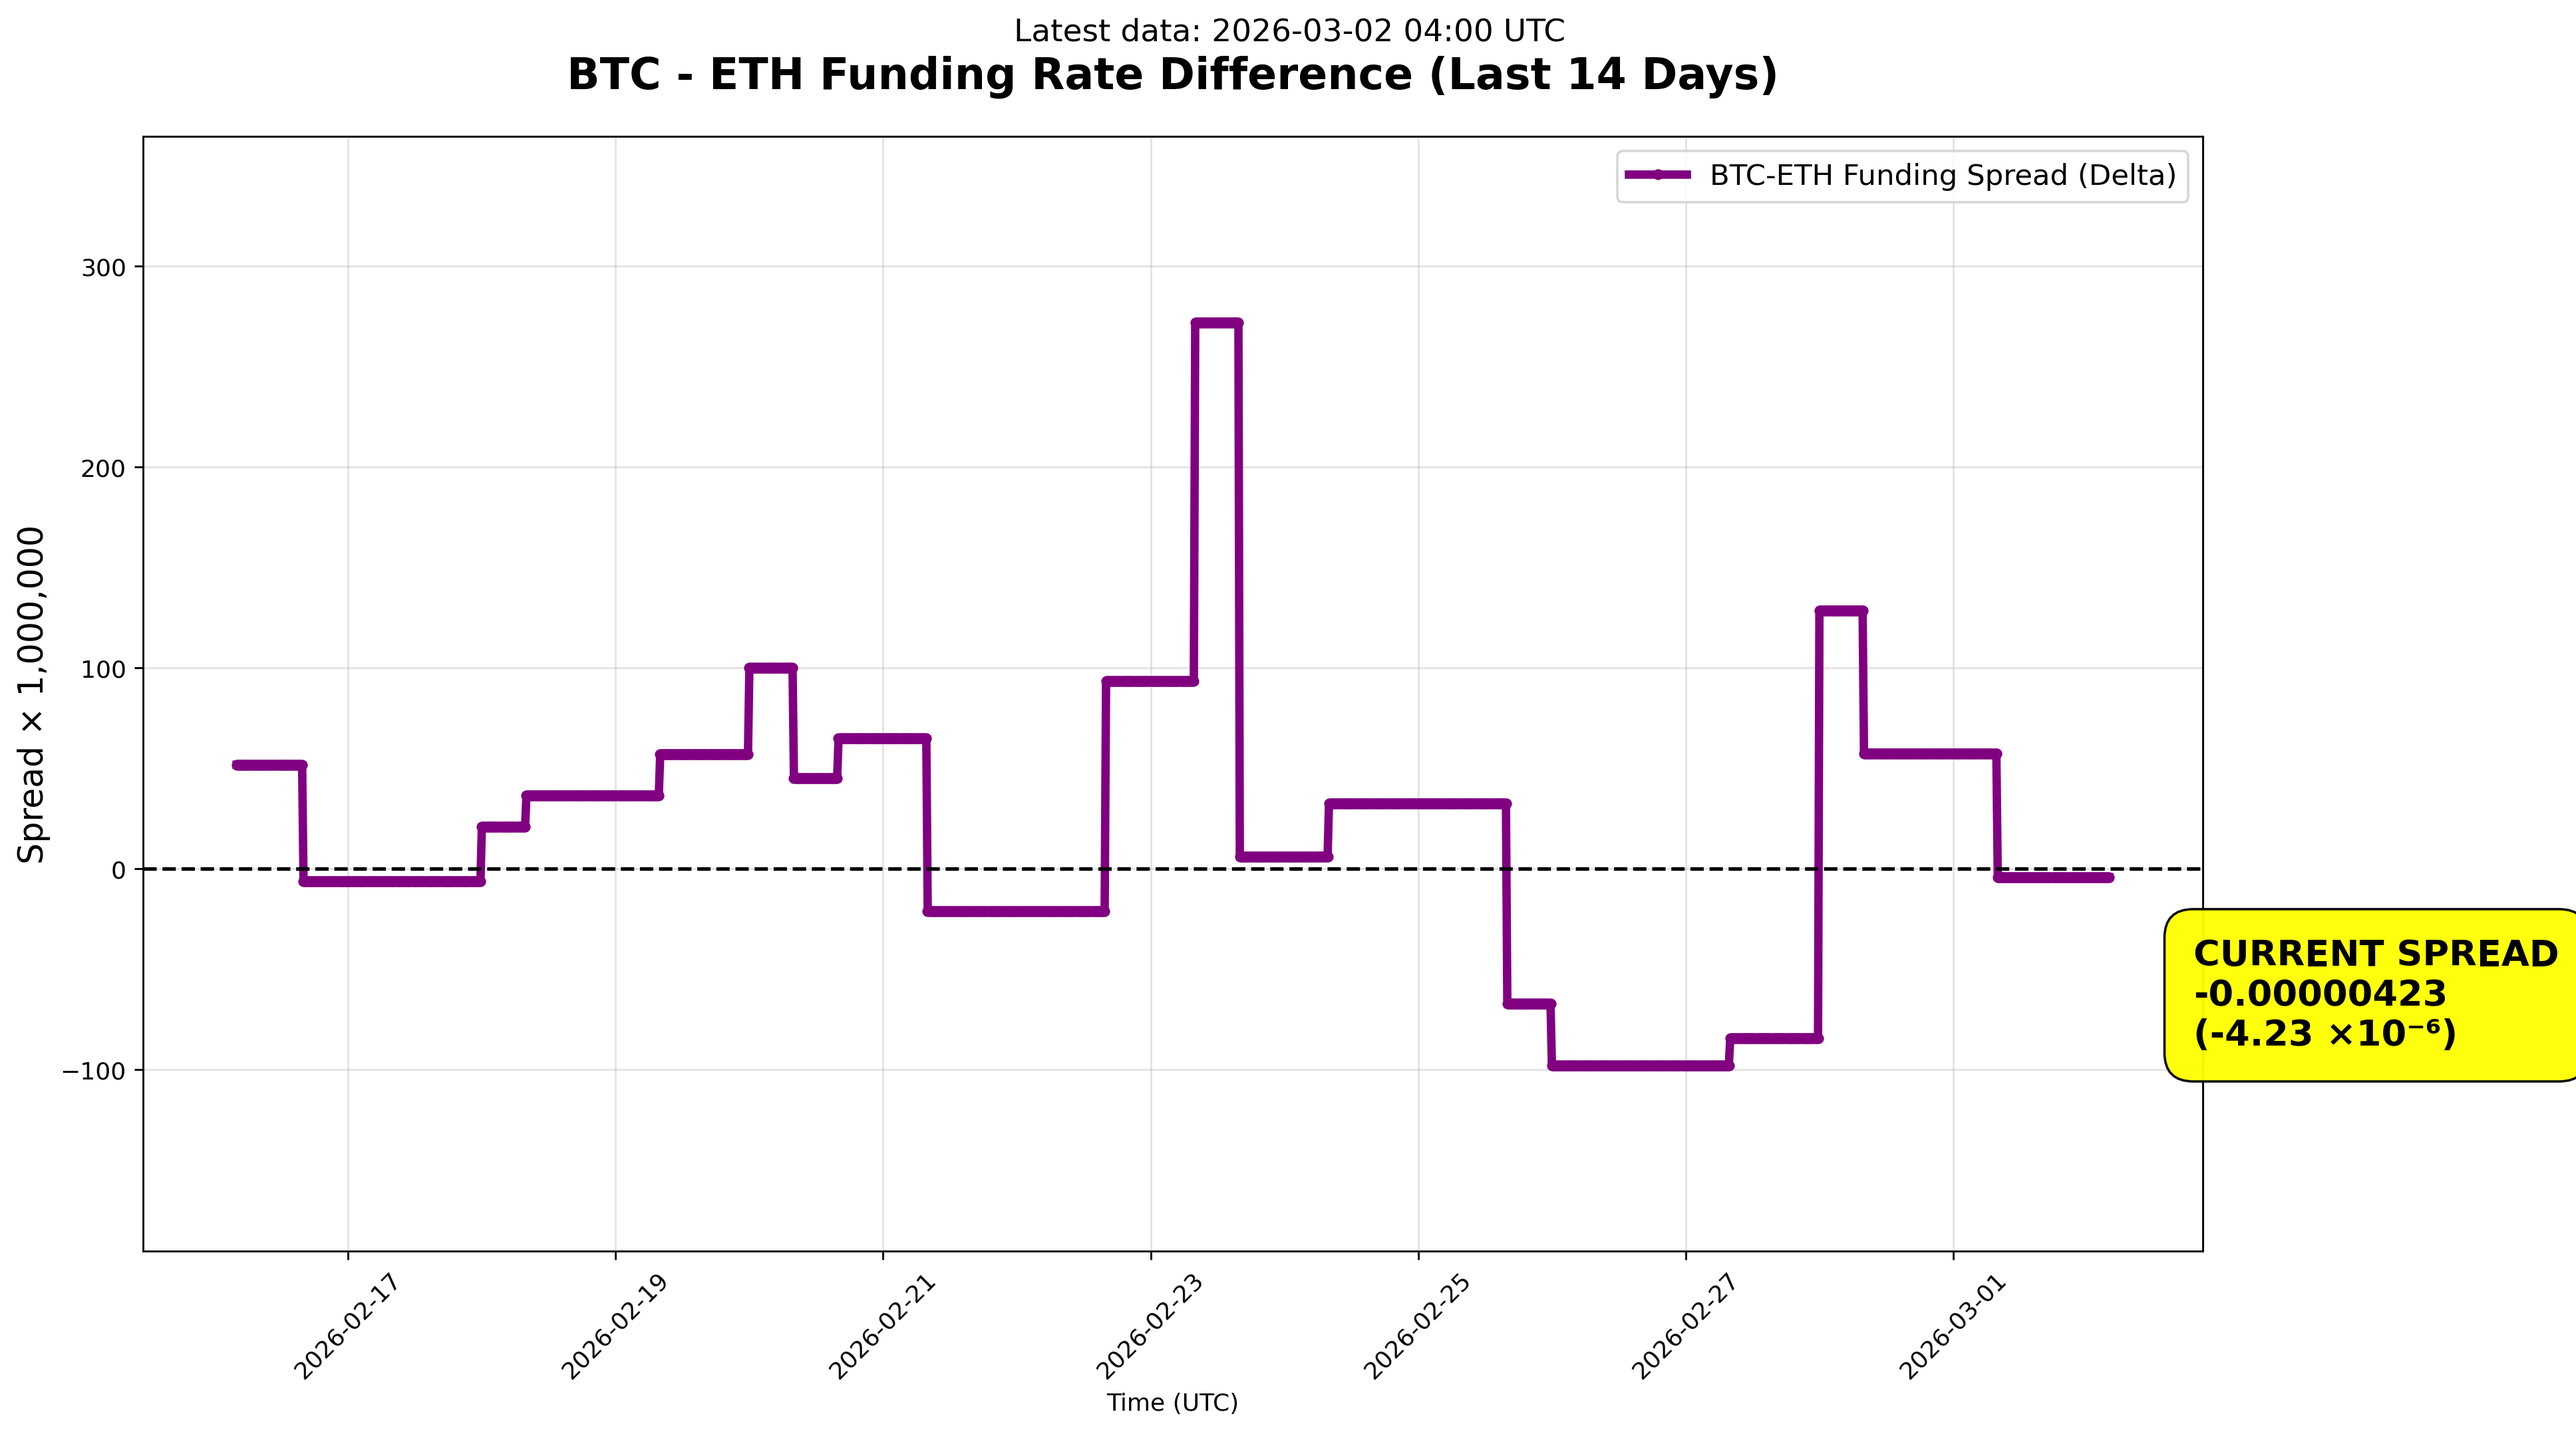
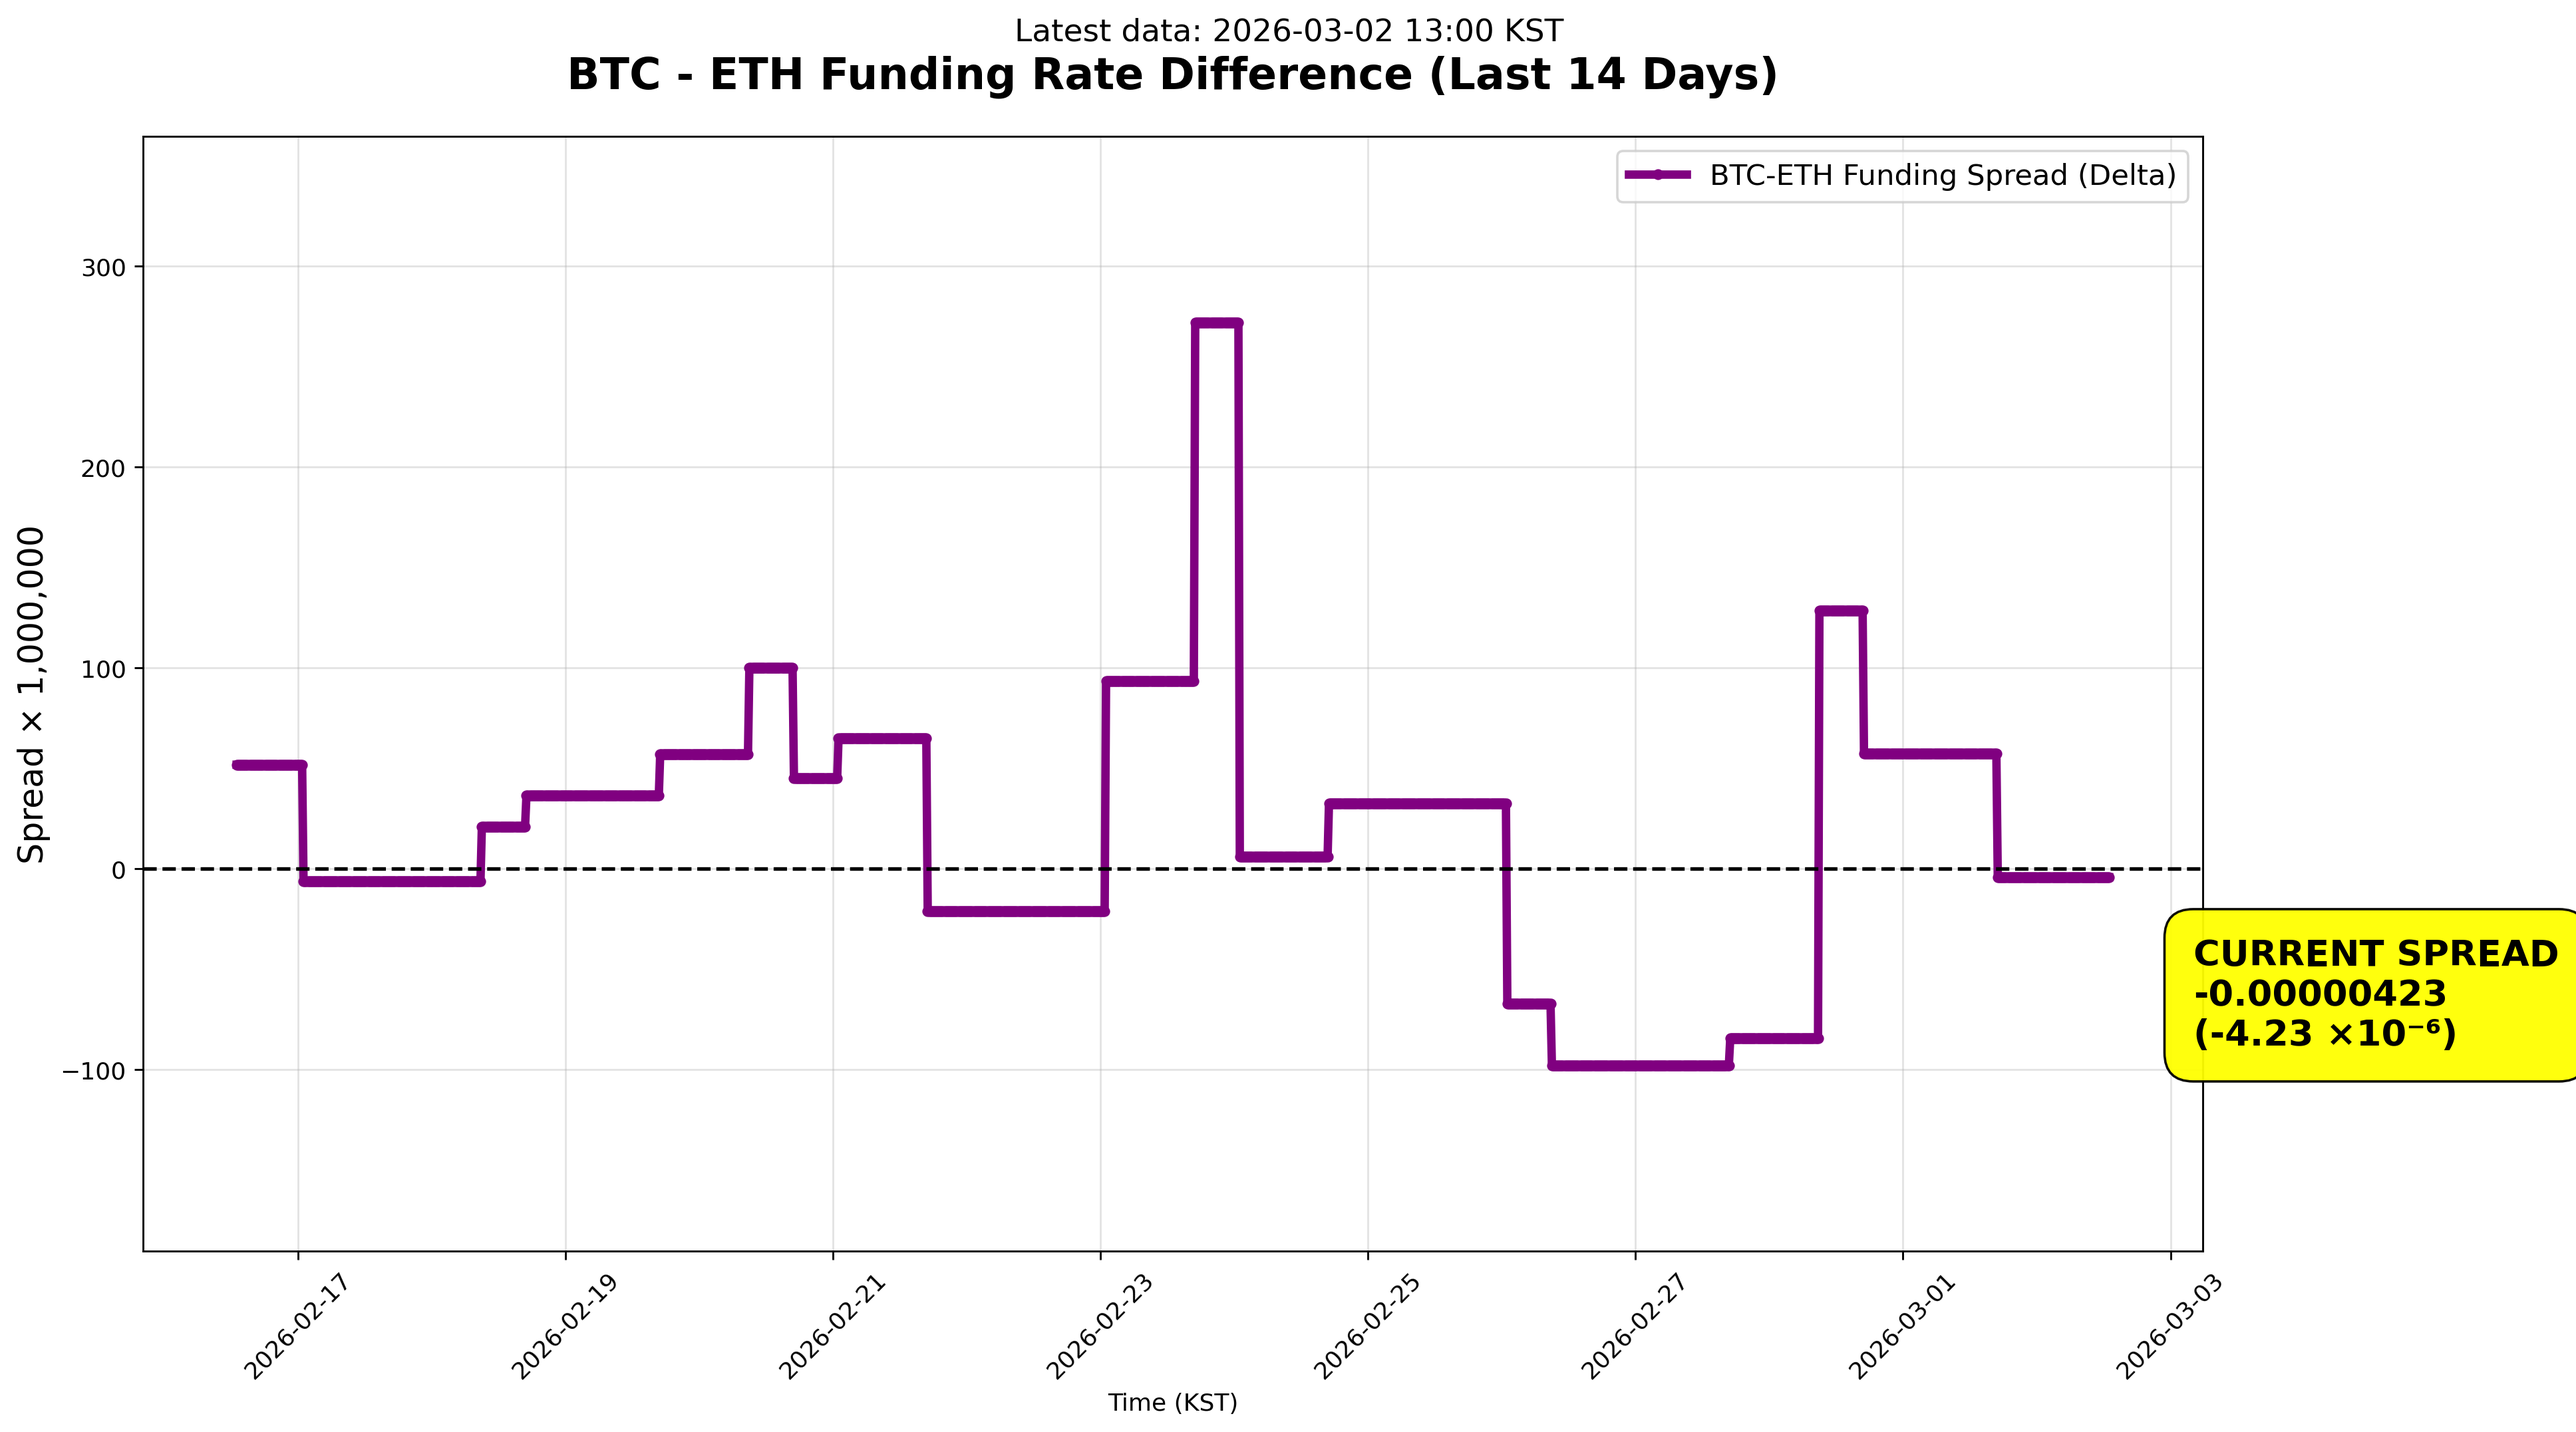
14d delta

diff --git a/src/funding_and_oi/analyzeData.py b/src/funding_and_oi/analyzeData.py
@@ -150,16 +150,21 @@ big_div = df.nlargest(10, 'funding_spread_abs')
 print("\nTop 10 largest funding spreads and 24h BTC/ETH ratio change afterward:")
 print(big_div[['funding_spread', 'ratio_24h_change']].round(6))
 
-# ====================== SIMPLE SINGLE-LINE 14D FUNDING SPREAD CHART (NO FILL, TIGHT Y) ======================
-print("\nGenerating Simple 14D Funding Spread Chart (single line, tight Y)...")
+# ====================== SIMPLE SINGLE-LINE 14D FUNDING SPREAD CHART (KST) ======================
+print("\nGenerating Simple 14D Funding Spread Chart (single line, tight Y, KST)...")
 
 end_time = df.index.max()
 start_time = end_time - pd.Timedelta(days=14)
 recent_df = df[(df.index >= start_time) & (df.index <= end_time)].copy()
 
+# Convert to KST (UTC+9, no DST)
+recent_df = recent_df.copy()
+recent_df.index = recent_df.index.tz_localize('UTC').tz_convert('Asia/Seoul')
+
 if len(recent_df) < 20:
     print("   Warning: Less than 14d of data — using last 1400 points as fallback")
-    recent_df = df.tail(1400)
+    recent_df = df.tail(1400).copy()
+    recent_df.index = recent_df.index.tz_localize('UTC').tz_convert('Asia/Seoul')
 
 fig, ax = plt.subplots(figsize=(15, 8.5))
 
@@ -194,18 +199,20 @@ ax.annotate(f'CURRENT SPREAD\n{current_spread:+.8f}\n({current_scaled:+.2f} ×10
 
 ax.set_title('BTC - ETH Funding Rate Difference (Last 14 Days)', fontsize=18, fontweight='bold', pad=20)
 ax.set_ylabel('Spread × 1,000,000', fontsize=14)
-ax.set_xlabel('Time (UTC)')
+ax.set_xlabel('Time (KST)')                    # ← now KST
 ax.legend(fontsize=12, loc='upper right')
 ax.grid(True, alpha=0.35)
 
-fig.suptitle(f'Latest data: {df.index[-1].strftime("%Y-%m-%d %H:%M UTC")}', fontsize=13, y=0.97)
+# Updated suptitle with KST time
+fig.suptitle(f'Latest data: {recent_df.index[-1].strftime("%Y-%m-%d %H:%M KST")}', 
+             fontsize=13, y=0.97)
 
 plt.xticks(rotation=45)
 plt.tight_layout()
 plt.savefig('btc_eth_funding_14d_delta.png', dpi=260, bbox_inches='tight', facecolor='white')
 plt.close()
 
-print(f"   • btc_eth_funding_14d_delta.png  (Clean single-line 14D spread | Current: {current_spread:+.8f})")
+print(f"   • btc_eth_funding_14d_delta.png  (KST version | Current: {current_spread:+.8f})")
 
 # ====================== FINAL MESSAGE ======================
 print("\n✅ ALL DONE! Files saved:")
